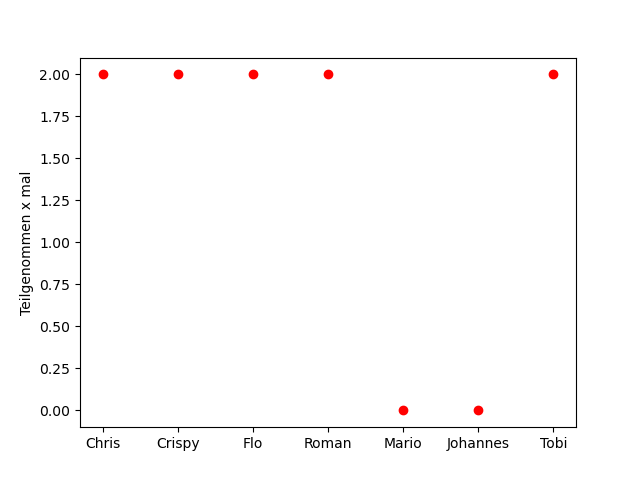
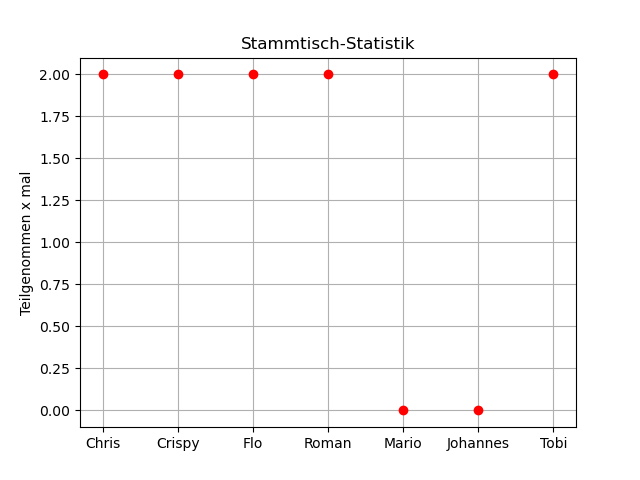
Update plt.plot

diff --git a/statistics.py b/statistics.py
@@ -27,10 +27,14 @@ def plot_stats(content):
                 count_dict[key] += 1
 
     plt.plot(list(count_dict.keys()), list(count_dict.values()), "ro")
+    plt.title("Stammtisch-Statistik")
     plt.ylabel("Teilgenommen x mal")
+    plt.grid()
     plt.show()
     plt.plot(list(count_dict.keys()), list(count_dict.values()), "ro")
+    plt.title("Stammtisch-Statistik")
     plt.ylabel("Teilgenommen x mal")
+    plt.grid()
     plt.savefig('statistics.png')
 
 
